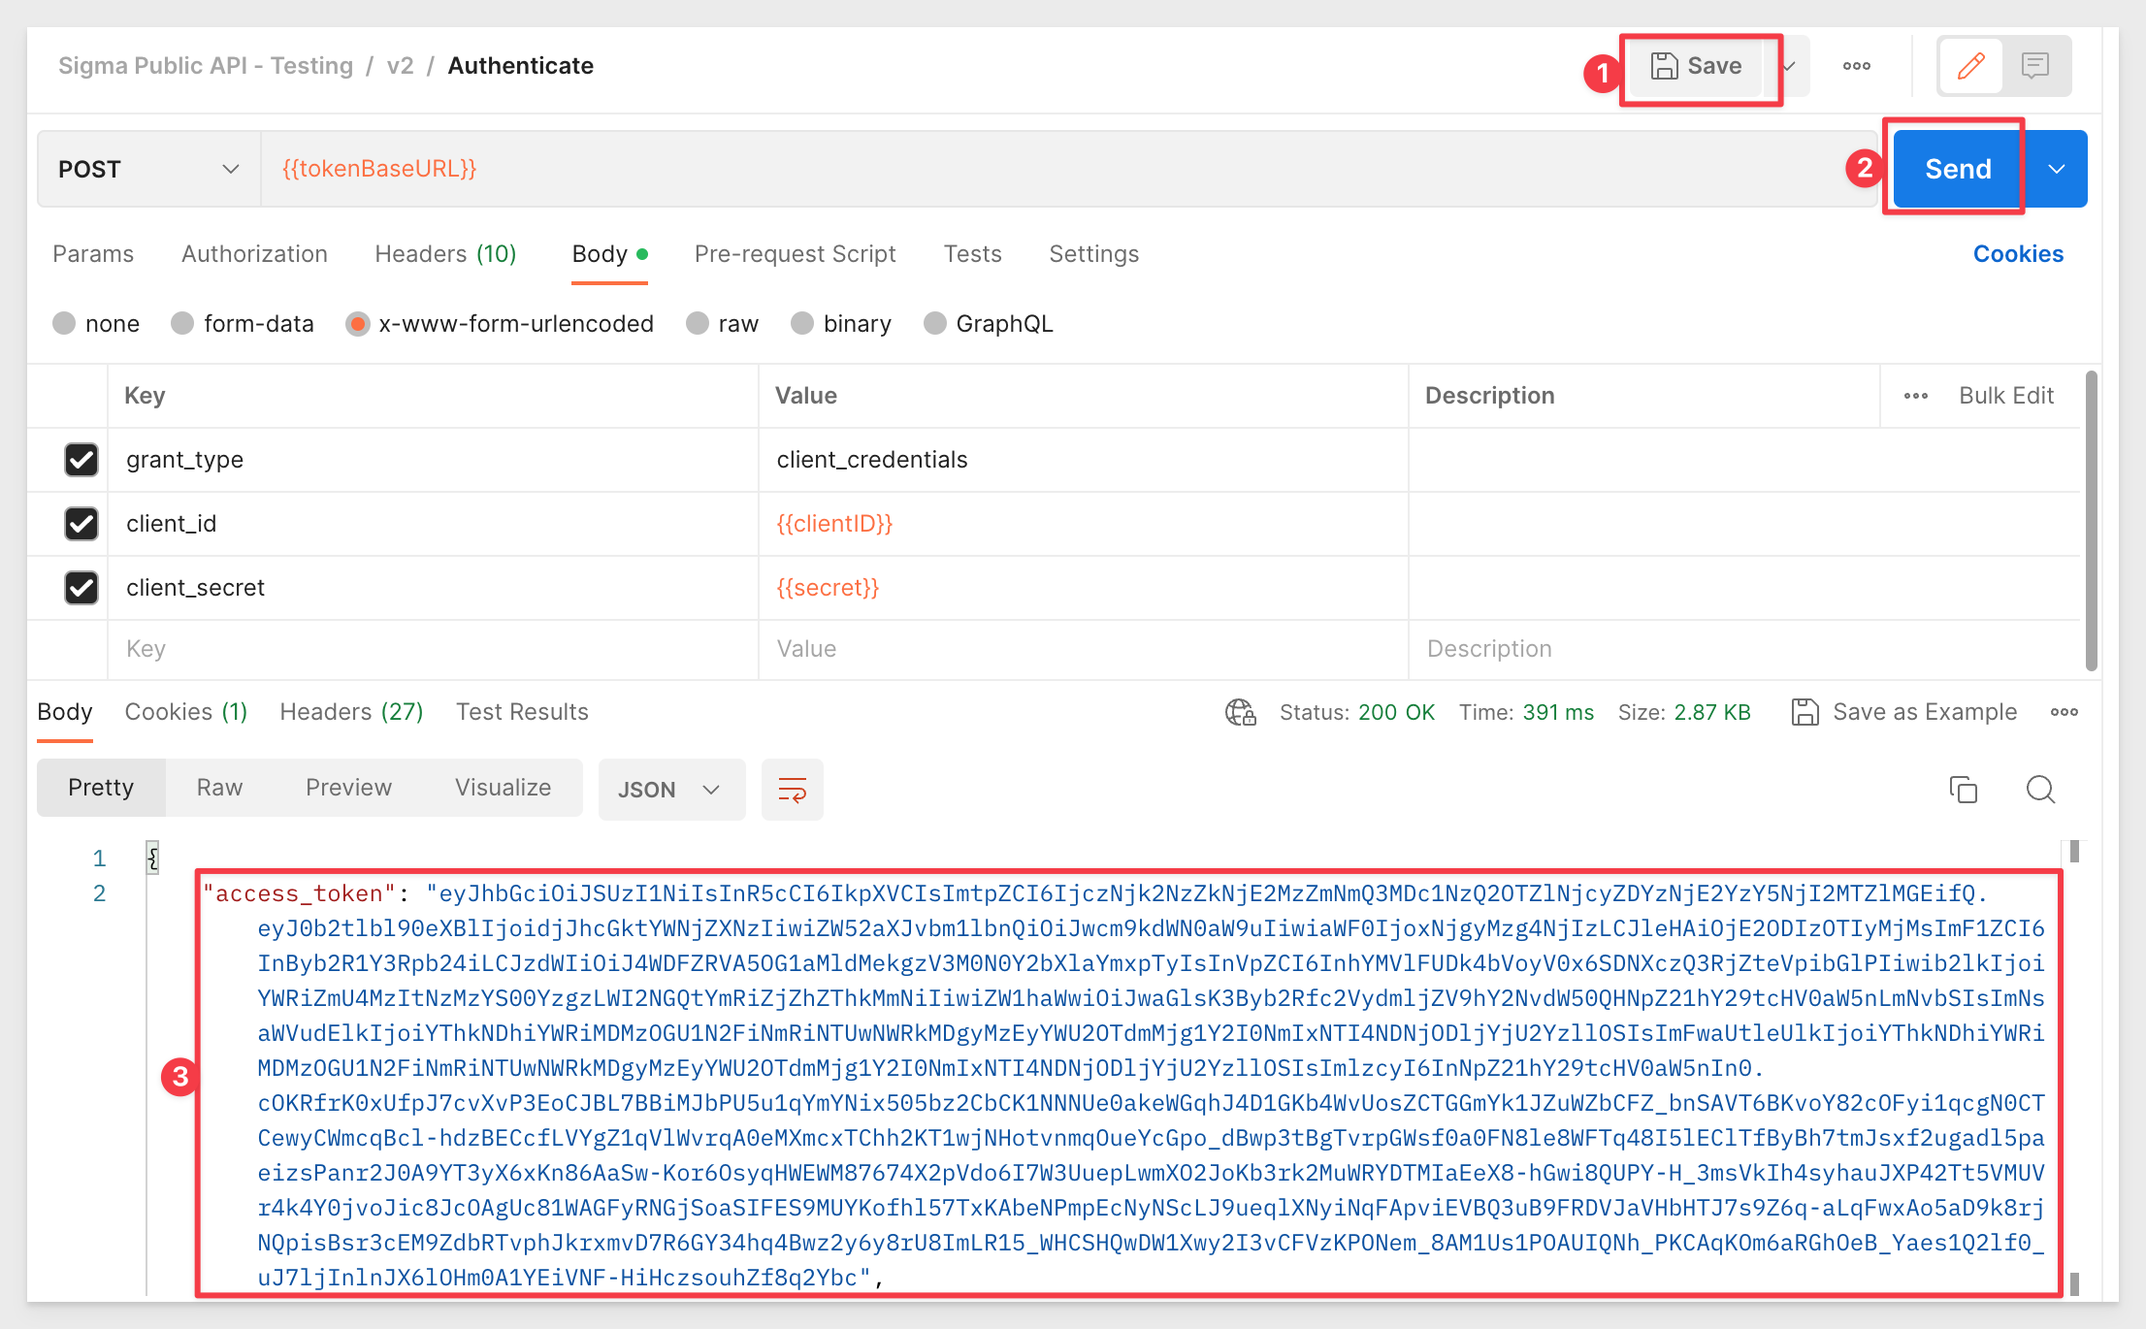
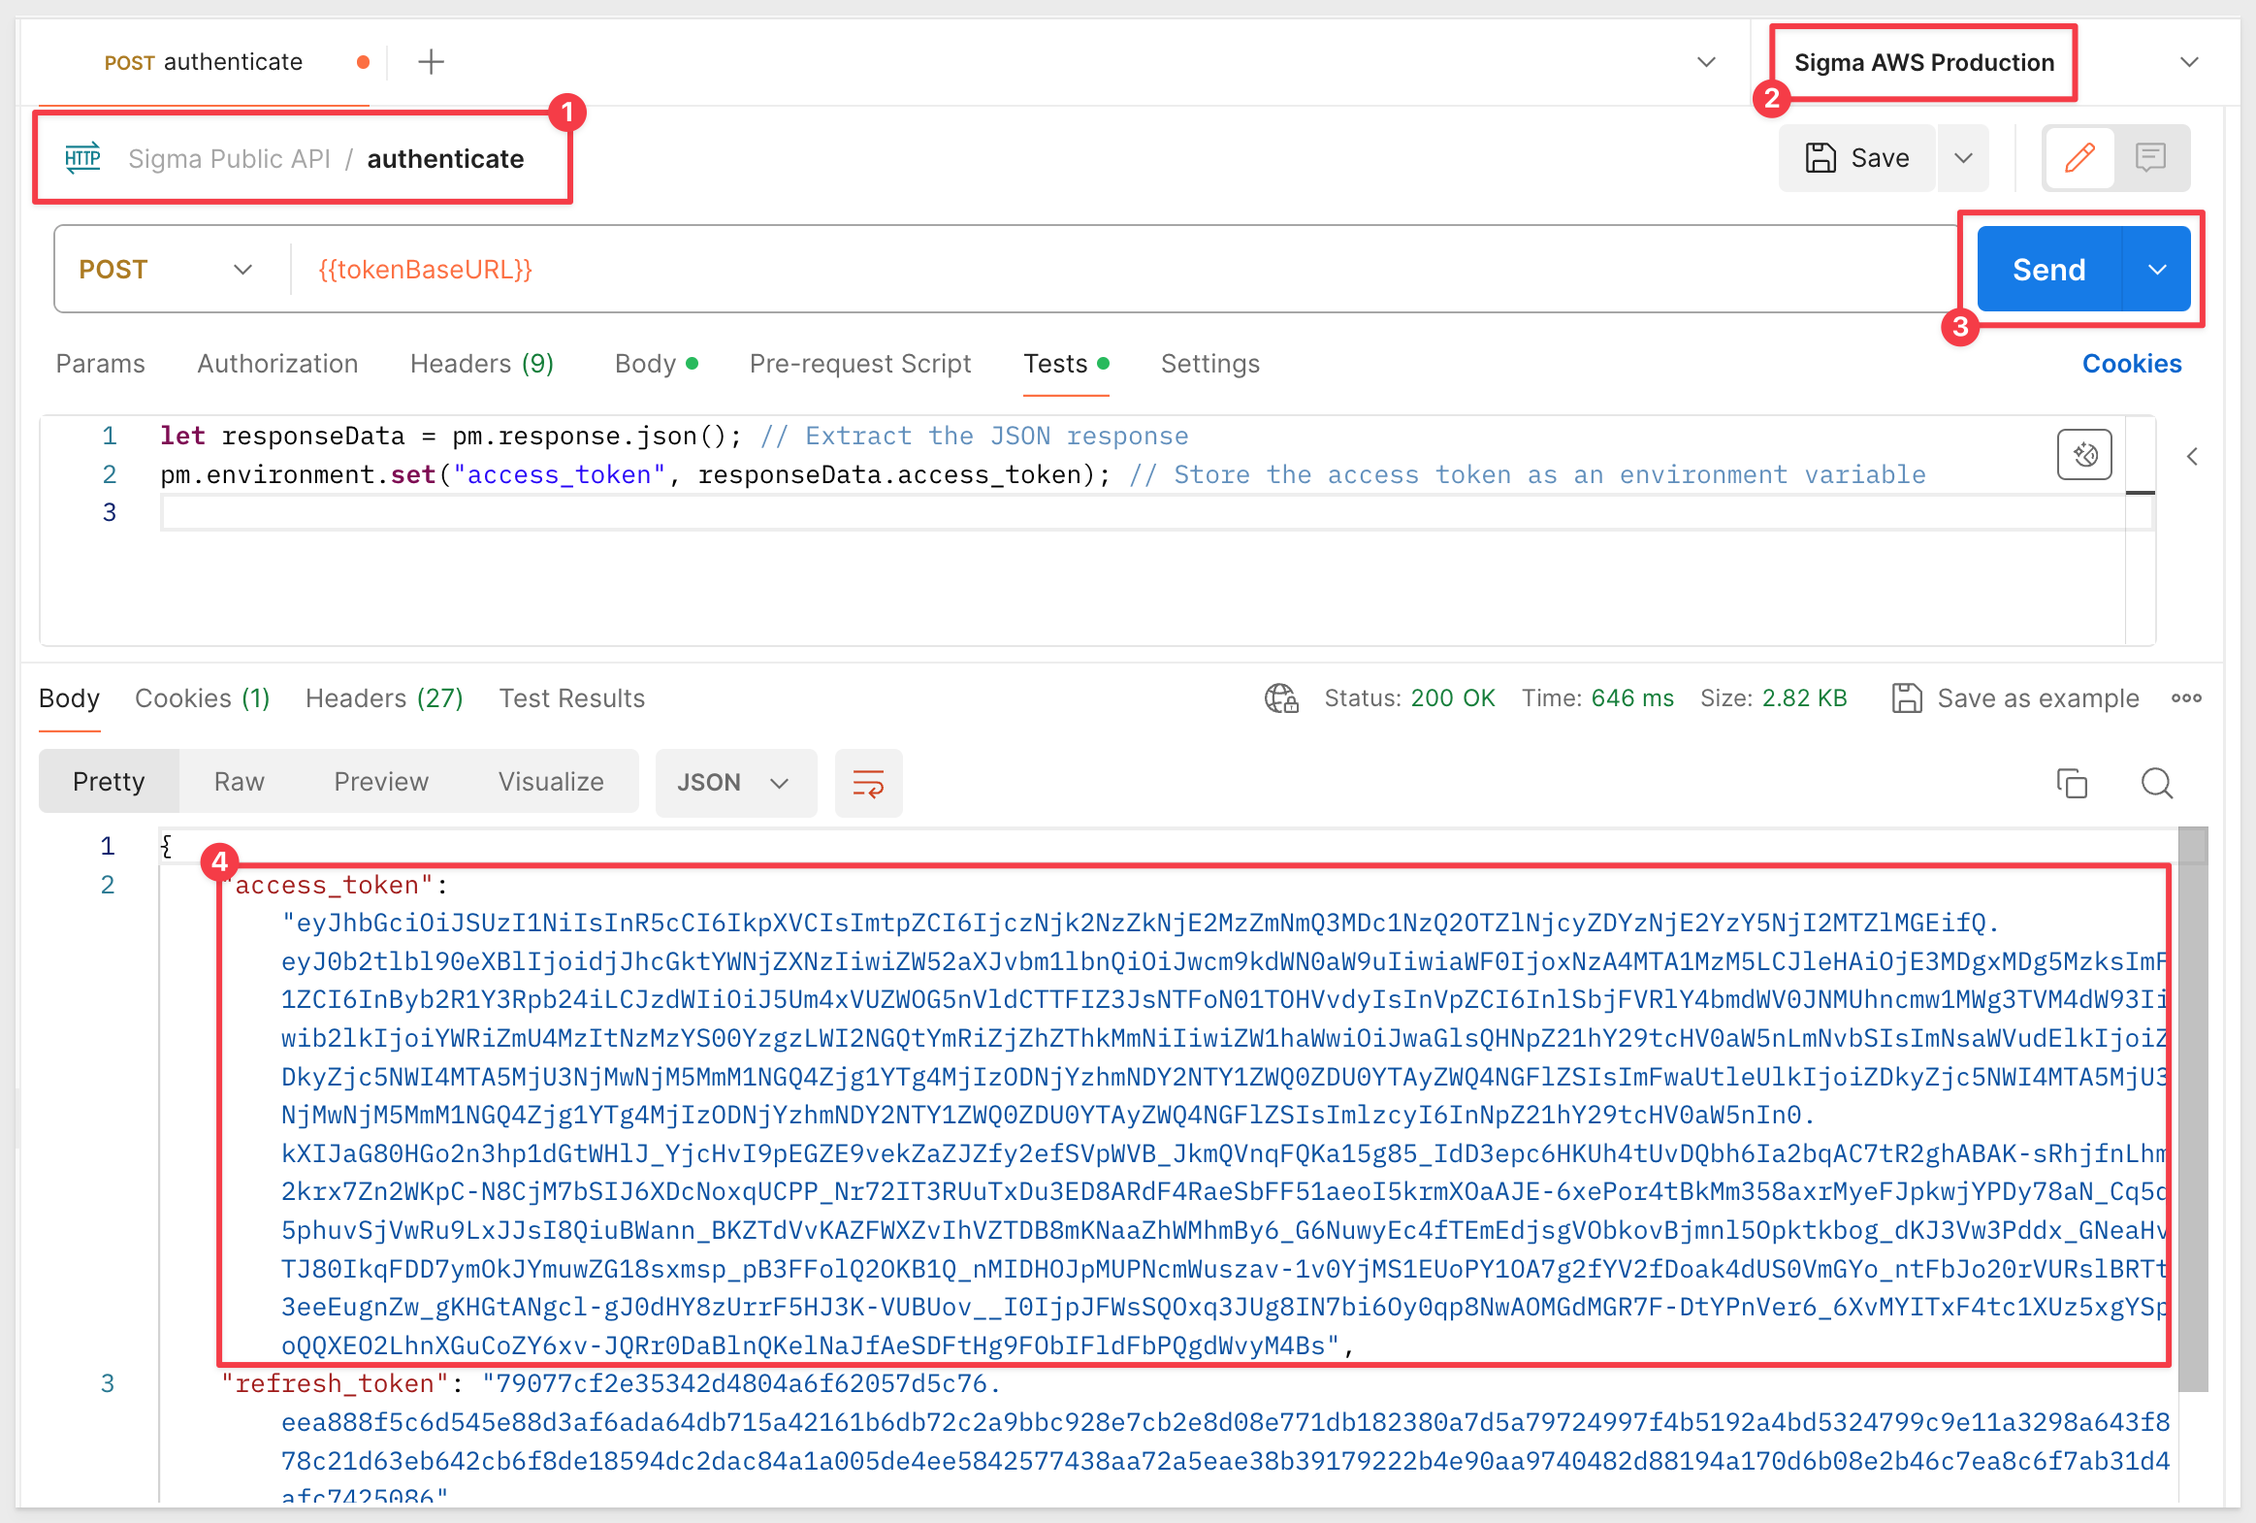
wip

diff --git a/site/sigmaguides/src/administration_sigma_api_with_postman/sigma_api_with_postman.md b/site/sigmaguides/src/administration_sigma_api_with_postman/sigma_api_with_postman.md
@@ -95,9 +95,13 @@ Expand the `Sigma Public API` to see the available methods as below:
 
 <img src="assets/pm33.png" width="500"/>
 
-In order to be able to use any API in the web version of Postman, you need to install the `Postman Agent` on your local machine. 
+In order to be able to use any API in the web version of Postman, you can either use the `Cloud Agent` or install the `Postman Agent` on your local machine. 
 
-The Postman Desktop Agent is a micro-application that runs locally on your desktop. It enables you to bypass the limitations that exist in the browser by allowing API requests to originate in the browser, but be routed through your local machine and network. The Postman Desktop Agent overcomes the Cross Object Resource Sharing (CORS) limitations of browsers and acts as your agent for making API requests from the Postman web app.
+To keep things simple we will use the `Cloud Agent` for this QuickStart.
+
+<img src="assets/pmRevised1.png" width="500"/>
+
+So you know the difference, the Postman Desktop Agent is a micro-application that runs locally on your desktop. It enables you to bypass the limitations that exist in the browser by allowing API requests to originate in the browser, but be routed through your local machine and network. The Postman Desktop Agent overcomes the Cross Object Resource Sharing (CORS) limitations of browsers and acts as your agent for making API requests from the Postman web app.
 
 Download and install the Postman Desktop Agent. You will need to unzip to perform the installation. 
 
@@ -133,12 +137,50 @@ Duration: 10
 
 Postman variables enable us to store and reuse values in Postman. By storing a value as a variable, we can reference it throughout our API Collection (API).
 
-At the top level node of the API, click the `Variables` tab and add the following variables and corresponding values. 
+Creating a dedicated `environment` in Postman is a great approach for managing variables such as the Sigma access_token. 
 
-Leave the "initial value" blank where we have not provided any default value.
+It not only helps in organizing and isolating your variables based on different stages of development (like testing, staging, and production) but also enhances security by keeping sensitive information such as tokens and secrets scoped to specific environments. 
+
+Since Sigma is a SaaS platform, we will only be using one environment, but this is great functionality to know when using Postman to work with APIs.
+
+In any case, we need to manage the Sigma bearer token, so let's do it using Postman environment variables, which is a best-practice.
+
+Here’s how you can set up an environment in Postman:
+
+### Create a New Environment
+
+Open the `Environments Manager` by clicking on the gear icon in the top right corner of Postman or use the “Manage Environments” option from the environment dropdown.
+
+Click on the `Add` button to create a new environment.
+
+<img src="assets/pmRevised2.png" width="800"/>
+
+Give the new environment a meaningful name, such as `Sigma AWS Production`.
+
+We need to add some variables. The `Current Value` will populate automatically and in the case of the blank variables, will populate with we actually authenticate. 
 
 <aside class="positive">
-<strong>IMPORTANT:</strong><br> The value for "baseUrl" may appear pre-filled with a value. Be sure to replace the initial and current values with the correct URLs based on where the Sigma portal is hosted (ie: AWS, GCP or Azure)
+<strong>IMPORTANT:</strong><br> Environment variables in Postman allow values to be referenced dynamically. For example, {{access_token}} will retrieve the most recent value stored in that variable, for the current selected environment.
+</aside>
+
+```code
+Variable       /   Initial Value
+baseUrl        /   https://aws-api.sigmacomputing.com
+tokenBaseURL   /   https://aws-api.sigmacomputing.com/v2/auth/token
+clientID       /   "Your Client ID"
+secret         /   "Your secret"
+access_token   /   Leave blank
+refresh_token  /   Leave blank
+token_type     /   Leave blank
+expires_in     /   Leave blank
+```
+
+<img src="assets/pmRevised3.png" width="800"/>
+
+`Save`the changes.
+
+<aside class="positive">
+<strong>IMPORTANT:</strong><br> Be sure to replace the initial and current values with the correct URLs based on where the Sigma portal is hosted (ie: AWS, GCP or Azure)
 </aside>
 
 If unsure where Sigma is hosted, this is found in `Sigma` > `Administration` > `Account`:
@@ -147,81 +189,29 @@ If unsure where Sigma is hosted, this is found in `Sigma` > `Administration` > `
 
 [The baseURL for each cloud is available here](https://docs.sigmacomputing.com/api/v2/#servers)
 
-Modify the `tokenBaseURL` as needed for the cloud provider.
+Modify the `tokenBaseURL` and `tokenBaseURL` as needed for the cloud provider.
 
-```console
-VARIABLES:    / INITIAL VALUES:
-baseUrl       / https://aws-api.sigmacomputing.com
-tokenBaseURL  / https://aws-api.sigmacomputing.com/v2/auth/token
-clientID      / {use the clientID we created earlier that you saved off to a text file}
-secret        / {use the secret we created earlier that you saved off to a text file}
-token         
-expires_in
-```
+### Use the new environment
 
-<img src="assets/pm13a.png" width="800"/>
+**Don't miss this step!**
 
-Click on the `Authorization` tab and configure the value for `Token` to use our new variable using the format shown:
+Once we have the new enviroment saved, we need to make it the active one for our API to use it:
 
-<img src="assets/pm13b.png" width="800"/>
+<img src="assets/pmRevised4.png" width="800"/>
 
 Save the changes and **CLOSE THIS TAB.**
 
-
-<!-- DEPRECIATED SECTION
-## Postman Environments
- Duration: 10 
-
-Postman provides the ability to create distinct environments which contain one or more values you can use in your Postman requests and easily switch between them using variables. 
-
-For example, you might want to use a different set of credentials to test API calls. Having two environments configured with different credentials allows you to use the same API methods but switch the environment with a click to use the different credentials / variables.
-
-We will use this to ease the Authentication required for the Sigma API (or any token based API) by creating an Environment to hold required values and then let the API methods just inherit. It is a timesaver.
-
-Postman displays the active environment in the environment selector, located in the top right of the workbench.
-
-You can access all environments from Environments in the sidebar. Select the set active icon Set active icon next to an environment to make it the active environment.
-
-To create a new environment, select `Environments` on the left and `select +`.
-
-<img src="assets/pm28.png" width="400">
-
-Name the Environment `Sigma API - AWS` and set the `Variables` and `Initial Values` as follows:
-
-```console
-VARIABLES:    / INITIAL VALUES:
-baseUrl       / https://aws-api.sigmacomputing.com
-tokenBaseURL  / https://aws-api.sigmacomputing.com/v2/auth/token
-clientID      / {use the clientID we created earlier that you saved off to a text file}
-secret        / {use the secret we created earlier that you saved off to a text file}
-```
-Click `Save`
-
-The Environment should look like this:
-
-<img src="assets/pm15.png" width="800">
-
-<aside class="negative">
-<strong>NOTE:</strong><br> We are using urls for AWS because that is where our specific Sigma instance is hosted. If you are using GCP or Azure you will need to adjust those values accordingly or the API calls will fail. Please refer to Sigma's online documentation for those URLs.
-</aside>
-
-Postman uses tabs, similar to a browser. 
-
-Select the new Environment but using the drop list as shown:
-
-<img src="assets/pm36.png" width="700">
-
-Now all our API methods will use these variable values (once we configure that in the Sigma API),
-
-You can close this Environment tab as it does not need to be open for us to use it.
--->
+![Footer](assets/sigma_footer.png)
+<!-- END -->
 
 ## Authentication
 Duration: 10
 
-Sigma's API requires that we authenticate prior to use. We will be using variables that we setup in the last step to request a `token`. This token is also know as a Bearer or JSON web token (JWT).
+Sigma's API requires that we authenticate prior to use. 
 
-We are going to add a `POST` method to automate authenticating, retrieving a token and persisting it in a variable. 
+We will be using variables that we setup in the last step to request a `access_token`. This access_token is also know as a Bearer or JSON web token (JWT).
+
+We are going to add a `POST` method to automate authenticating, retrieving an access_token, and persisting it in a variable. 
 
 ### New POST Method
 
@@ -233,7 +223,7 @@ This opens a new request which we will rename to `Authenticate`.
 
 Change the `method` to `POST` and `Authorization` to `No Auth`:
 
-<img src="assets/pm35b.png" width="500">
+<img src="assets/pm35b.png" width="800">
 
 Under the `Body` tab, all the following values (two are environment variables and one is static):
 
@@ -245,22 +235,31 @@ client_id       / {{clientID}}
 client_secret   / {{secret}}
 ```
 
-<img src="assets/pm35c.png" width="500">
+<img src="assets/pm35c.png" width="=800">
 
 Provide the request url using the curly-brace format to leverage our environment variable for `tokenBaseURL`:
 
-<img src="assets/pm35d.png" width="500">
+<img src="assets/pm35d.png" width="800">
+
+We want to persist this new `access_token` in our environment variable under the same name.
+
+To do that, we need to add this script to the authenticate method, under the `Tests` tab:
+```code
+let responseData = pm.response.json(); // Extract the JSON response
+pm.environment.set("access_token", responseData.access_token); // Store the access token as an environment variable
+```
+
+<img src="assets/pmRevised5.png" width="800"/>
 
 Now that we are configured, click `Save` and `Send` to try our request. If all is correct, we will get a `Status 200 OK` and an access token:
 
-<img src="assets/pm35e.png" width="500">
+<img src="assets/pm35e.png" width="800">
 
 <aside class="negative">
-<strong>NOTE:</strong><br> The token that we must now pass for all requests (withing this expiration period) is the value between the quotation marks.
-</aside>
+<strong>NOTE:</strong><br> The access_token that we must now pass for all requests (withing this expiration period) is the value between the quotation marks.
 
-<aside class="negative">
-<strong>NOTE:</strong><br> Tokens do expire. If the API later returns one of these (or similar):<br><br>
+access_token do expire. If the API later returns one of these (or similar):<br>
+
 message="invalid signature"<br>
 code="unauthorized"<br>
 message="jwt expired"<br>
@@ -268,38 +267,9 @@ message="jwt expired"<br>
 ...we just need to resend the Authentication request, copy and paste the new token as we demonstrated earlier in this section.
 </aside>
 
-### Persist Token Response
+We can verify that the access_token has been stored by simply going back the `environments` icon, opening it, clicking `edit` and observing that the value has been stored:
 
-One more step is required so that the values in the response are stored into our variables we setup earlier. 
-
-On the `Authenticate` > `Tests` tab, paste the following code:
-
-```console
-let response=pm.response.json();
-console.log(response);
-pm.collectionVariables.set("token", response['access_token']);
-pm.collectionVariables.set("token_type", response['token_type']);
-pm.collectionVariables.set("expires_in", response['refresh_token']);
-```
-`Save` this change.
-
-Now that we are all setup, let's run a test to prove that our variables are being saved after we get a valid response.
-
-Earlier, we ran `Authenticate` and got a valid response so we want to clear that out first.
-
-Go back to the `top level node` > `variables` tab and click to `Reset all`:
-
-<img src="assets/pm13d.png" width="900">
-
-This reset clears the three values related to the token. `Current value` will now be blank (Initial was already blank).
-
-**SAVE AND CLOSE THIS TAB**
-
-Now return to the `Authenticate` tab, run the method and get another token. 
-
-Then return to the `top level node` > `Variables` tab and we see that new values have appeared in the `Current value` fields for the three token related items:
-
-<img src="assets/pm13e.png" width="800">
+<img src="assets/pmRevised6.png" width="800"/>
 
 We are now ready to proceed to using other API methods.
 
@@ -313,30 +283,41 @@ Let's use the API to `Get` a list of available Connections.
 
 Expand the API to show the method under `V2`, `connections`, `Returns a list of available connections` and click to select open it in a new tab.
 
-We need to uncheck the two checkboxes (item #4 in the screenshot) for `Params` as we just want to return all the connections. These two optional parameters allow us to filter the return but we won't do that at this point. Click `Send`:
+We need to uncheck the two checkboxes (item #4 in the screenshot) for `Params` as we just want to return all the connections. These two optional parameters allow us to filter the return but we won't do that at this point. 
+
+Click `Save`:
 
 <img src="assets/pm25.png" width="800">
 
-In the `Body` section, is the return from the API in JSON. For example, our first connection is described this way:
+We need to alter the `Authorization` tab to use the bearer token variable:
 
-```plaintext
-        {
-            "organizationId": "adbfe832-733a-4c83-b64d-bdbf6ae8d2cb",
+<img src="assets/pm25a.png" width="800">
+
+Click `Save` and the `Send`.
+
+<aside class="positive">
+<strong>IMPORTANT:</strong><br> Each method you wish to use must have it's authentication change this way, in order for them to work as expected. Postman also allows permission inheritance, which is outside the scope of this QuickStart.
+</aside>
+
+In the `Body` section (shown in the previous screenshot), is the return from the API in JSON. For example, our first connection is described this way:
+
+```code
+          "organizationId": "adbfe832-733a-4c83-b64d-bdbf6ae8d2cb",
             "connectionId": "10eed7b7-4a10-4c40-802b-4ba91287d5fe",
             "isSample": true,
-            "lastActiveAt": "2023-01-25T14:44:50.000Z",
+            "isAuditLog": false,
+            "lastActiveAt": "2024-02-15T21:01:37.000Z",
             "name": "Sigma Sample Database",
             "type": "snowflake",
             "useOauth": false,
             "createdBy": "1IDcJykBMeDwcot0MXWaw5R1RUwI7",
             "updatedBy": "yRn1UFV8ngVWBM1Hgrl51h7MS8uow",
             "createdAt": "2022-09-22T18:41:47.151Z",
-            "updatedAt": "2023-01-25T14:44:50.695Z",
-            "isArchived": false
-        },
+            "updatedAt": "2024-02-15T21:01:37.140Z",
+            "default": 120....more
 ```
 
-Even if you are only using a Sigma Trial and have not created a connection yourself, there will be one shown. This is Sigma's sample database and is included on all Sigma instances by default. Your ID values will be different of course.
+Even if you are only using a Sigma Trial, and have not created a connection yourself, there will be one shown. This is Sigma's sample database, and is included on all Sigma instances by default. Your ID values will be different of course.
 
 ![Footer](assets/sigma_footer.png)
 <!-- END -->
